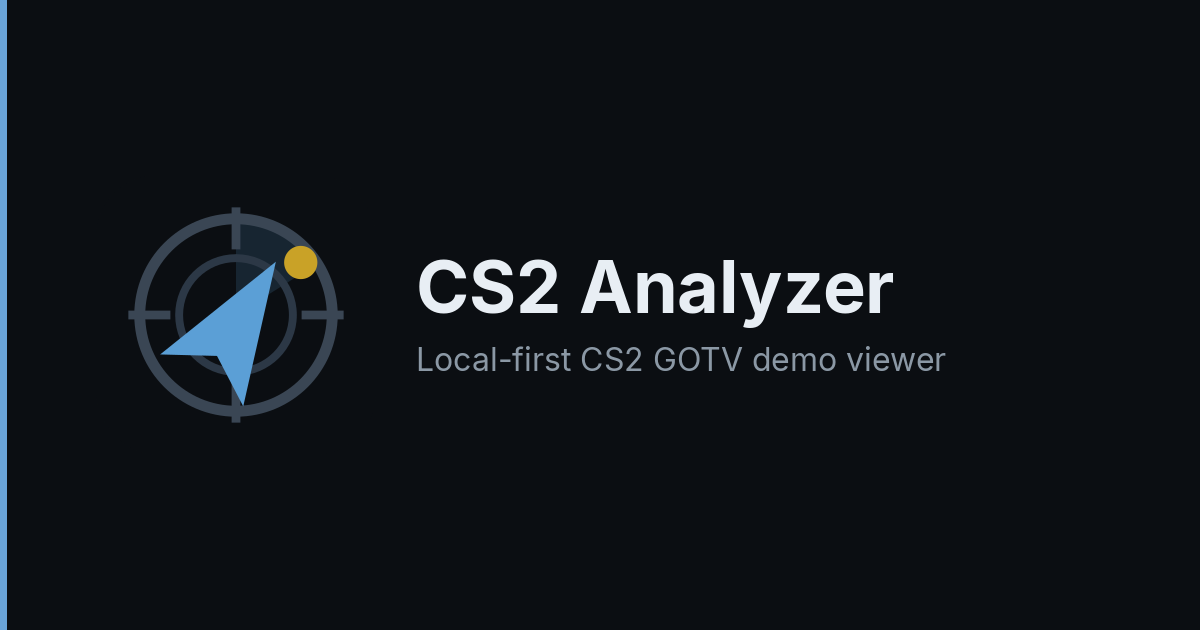
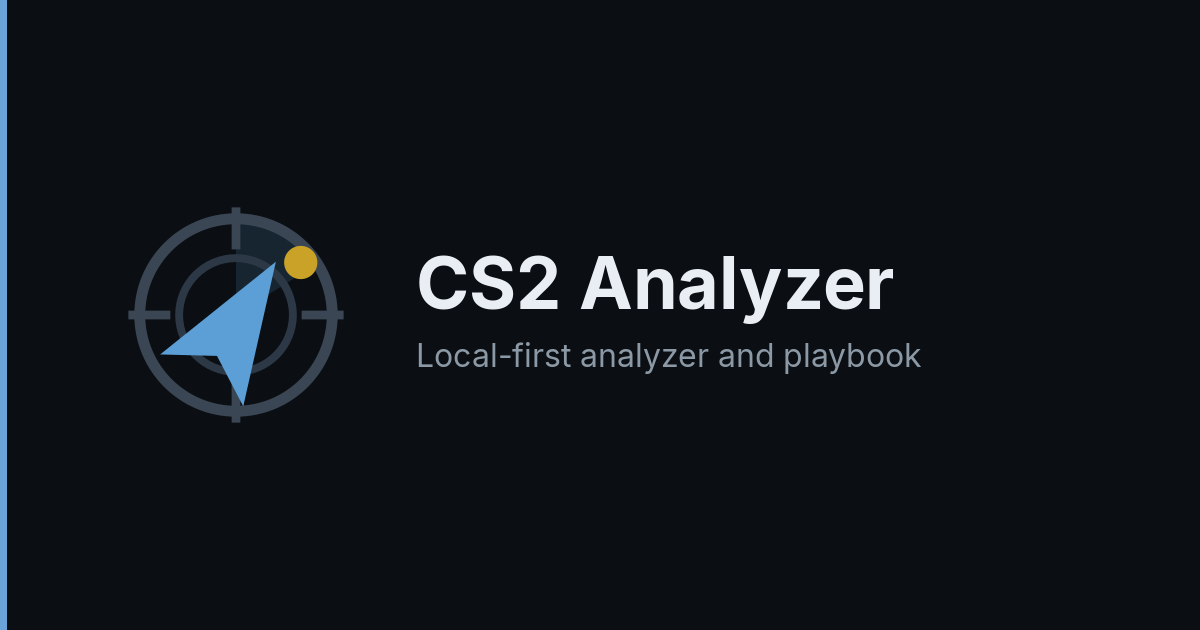
Call the product an analyzer and name Playbook in site copy.
SEO defaults said viewer and skipped a core surface. Home, JSON-LD, and
the social card now describe a free local-first CS2 demo analyzer and
playbook; demos stay in the browser.

Changed region(s): [[0.3392, 0.3921, 0.8017, 0.6032], [0.3392, 0.3921, 0.4625, 0.5127]]

diff --git a/apps/web/index.html b/apps/web/index.html
@@ -7,7 +7,7 @@
     <title>CS2 Analyzer</title>
     <meta
       name="description"
-      content="Free local-first Counter-Strike 2 GOTV demo viewer. Parse a CS2 demo in the browser; the file stays on this machine."
+      content="Free local-first Counter-Strike 2 GOTV demo analyzer and playbook. Parse a CS2 demo in the browser, or draw and export strats; files stay on this machine."
     />
     <link rel="canonical" href="https://cs2analyzer.whiskeyo.pl/" />
     <meta property="og:type" content="website" />
@@ -15,7 +15,7 @@
     <meta property="og:title" content="CS2 Analyzer" />
     <meta
       property="og:description"
-      content="Free local-first Counter-Strike 2 GOTV demo viewer. Parse a CS2 demo in the browser; the file stays on this machine."
+      content="Free local-first Counter-Strike 2 GOTV demo analyzer and playbook. Parse a CS2 demo in the browser, or draw and export strats; files stay on this machine."
     />
     <meta property="og:url" content="https://cs2analyzer.whiskeyo.pl/" />
     <meta property="og:image" content="https://cs2analyzer.whiskeyo.pl/og-image.png" />
@@ -24,7 +24,7 @@
     <meta name="twitter:title" content="CS2 Analyzer" />
     <meta
       name="twitter:description"
-      content="Free local-first Counter-Strike 2 GOTV demo viewer. Parse a CS2 demo in the browser; the file stays on this machine."
+      content="Free local-first Counter-Strike 2 GOTV demo analyzer and playbook. Parse a CS2 demo in the browser, or draw and export strats; files stay on this machine."
     />
     <meta name="twitter:image" content="https://cs2analyzer.whiskeyo.pl/og-image.png" />
     <script type="application/ld+json">
@@ -33,7 +33,7 @@
         "@type": ["SoftwareApplication", "WebApplication"],
         "name": "CS2 Analyzer",
         "url": "https://cs2analyzer.whiskeyo.pl/",
-        "description": "Free local-first Counter-Strike 2 GOTV demo viewer. Parse a CS2 demo in the browser; the file stays on this machine.",
+        "description": "Free local-first Counter-Strike 2 GOTV demo analyzer and playbook. Parse a CS2 demo in the browser, or draw and export strats; files stay on this machine.",
         "applicationCategory": "WebApplication",
         "operatingSystem": "Web browser",
         "browserRequirements": "Requires a JavaScript-enabled web browser.",
@@ -43,7 +43,7 @@
           "price": "0",
           "priceCurrency": "USD"
         },
-        "featureList": "Local-first: Counter-Strike 2 GOTV demos are parsed in the browser and stay on this device."
+        "featureList": "Local-first: parse Counter-Strike 2 GOTV demos in the browser and draw or export playbook strats; files stay on this device."
       }
     </script>
     <link rel="icon" href="/favicon.svg" type="image/svg+xml" />

diff --git a/apps/web/src/lib/app/pageMeta.ts b/apps/web/src/lib/app/pageMeta.ts
@@ -32,7 +32,7 @@ export type SiteJsonLd = {
 };
 
 const HOME_DESCRIPTION =
-  "Free local-first Counter-Strike 2 GOTV demo viewer. Parse a CS2 demo in the browser; the file stays on this machine.";
+  "Free local-first Counter-Strike 2 GOTV demo analyzer and playbook. Parse a CS2 demo in the browser, or draw and export strats; files stay on this machine.";
 
 /** Titles use an em dash, e.g. `CS2 Analyzer — Playbook`. */
 const PAGE_META: Record<string, Omit<PageMeta, "canonical">> = {
@@ -50,7 +50,7 @@ const PAGE_META: Record<string, Omit<PageMeta, "canonical">> = {
   },
   [ROUTES.faq]: {
     title: `${SITE_NAME} — FAQ`,
-    description: "Short answers for the local-first CS2 GOTV viewer.",
+    description: "Short answers for the local-first CS2 GOTV analyzer.",
   },
   [ROUTES.rating]: {
     title: `${SITE_NAME} — Rating`,
@@ -58,13 +58,13 @@ const PAGE_META: Record<string, Omit<PageMeta, "canonical">> = {
   },
   [ROUTES.contact]: {
     title: `${SITE_NAME} — Contact`,
-    description: "Email, Steam, and GitHub for the local-first CS2 GOTV viewer.",
+    description: "Email, Steam, and GitHub for the local-first CS2 GOTV analyzer.",
   },
 };
 
 const LAYOUTS_META: Omit<PageMeta, "canonical"> = {
   title: `${SITE_NAME} — Layouts`,
-  description: "Edit radar callout layouts for the local CS2 viewer.",
+  description: "Edit radar callout layouts for the local CS2 analyzer.",
 };
 
 const NOT_FOUND_META: Omit<PageMeta, "canonical"> = {
@@ -113,7 +113,7 @@ export function siteJsonLd(): SiteJsonLd {
       priceCurrency: "USD",
     },
     featureList:
-      "Local-first: Counter-Strike 2 GOTV demos are parsed in the browser and stay on this device.",
+      "Local-first: parse Counter-Strike 2 GOTV demos in the browser and draw or export playbook strats; files stay on this device.",
   };
 }
 

diff --git a/apps/web/src/lib/app/pageMeta.test.ts b/apps/web/src/lib/app/pageMeta.test.ts
@@ -31,9 +31,13 @@ describe("pageMeta", () => {
     expect(pageTitle("/faq/")).toBe("CS2 Analyzer — FAQ");
     expect(pageTitle("/rating")).toBe("CS2 Analyzer — Rating");
     expect(pageTitle("/contact")).toBe("CS2 Analyzer — Contact");
-    expect(pageMeta("/").description).toMatch(/Free local-first Counter-Strike 2 GOTV demo/);
+    expect(pageMeta("/").description).toMatch(
+      /Free local-first Counter-Strike 2 GOTV demo analyzer/,
+    );
+    expect(pageMeta("/").description).toMatch(/playbook/i);
     expect(pageMeta("/").description).toMatch(/CS2 demo/);
     expect(pageMeta("/").description).toMatch(/browser/);
+    expect(pageMeta("/").description).not.toMatch(/viewer/i);
     expect(pageMeta("/analyzer").description).toMatch(/demo/);
     expect(pageMeta("/playbook").description).toMatch(/playbook/i);
     expect(pageMeta("/faq").description).toMatch(/FAQ|answers/i);
@@ -128,6 +132,8 @@ describe("siteJsonLd", () => {
     expect(payload.offers.price).toBe("0");
     expect(payload.operatingSystem).toMatch(/browser/i);
     expect(payload.featureList).toMatch(/local-first/i);
+    expect(payload.featureList).toMatch(/playbook/i);
+    expect(JSON.stringify(payload)).not.toMatch(/viewer/i);
     const script = document.head.querySelector('script[type="application/ld+json"]');
     expect(script).toBeTruthy();
     expect(JSON.parse(script?.textContent ?? "")).toEqual(payload);

diff --git a/scripts/generate-og-image.py b/scripts/generate-og-image.py
@@ -36,7 +36,7 @@ MUTED = (0x8B, 0x98, 0xA5)
 ACCENT = (0x6A, 0xA4, 0xD8)
 
 TITLE = "CS2 Analyzer"
-TAGLINE = "Local-first CS2 GOTV demo viewer"
+TAGLINE = "Local-first analyzer and playbook"
 
 MARK_SIZE = 280
 PAD_X = 96
